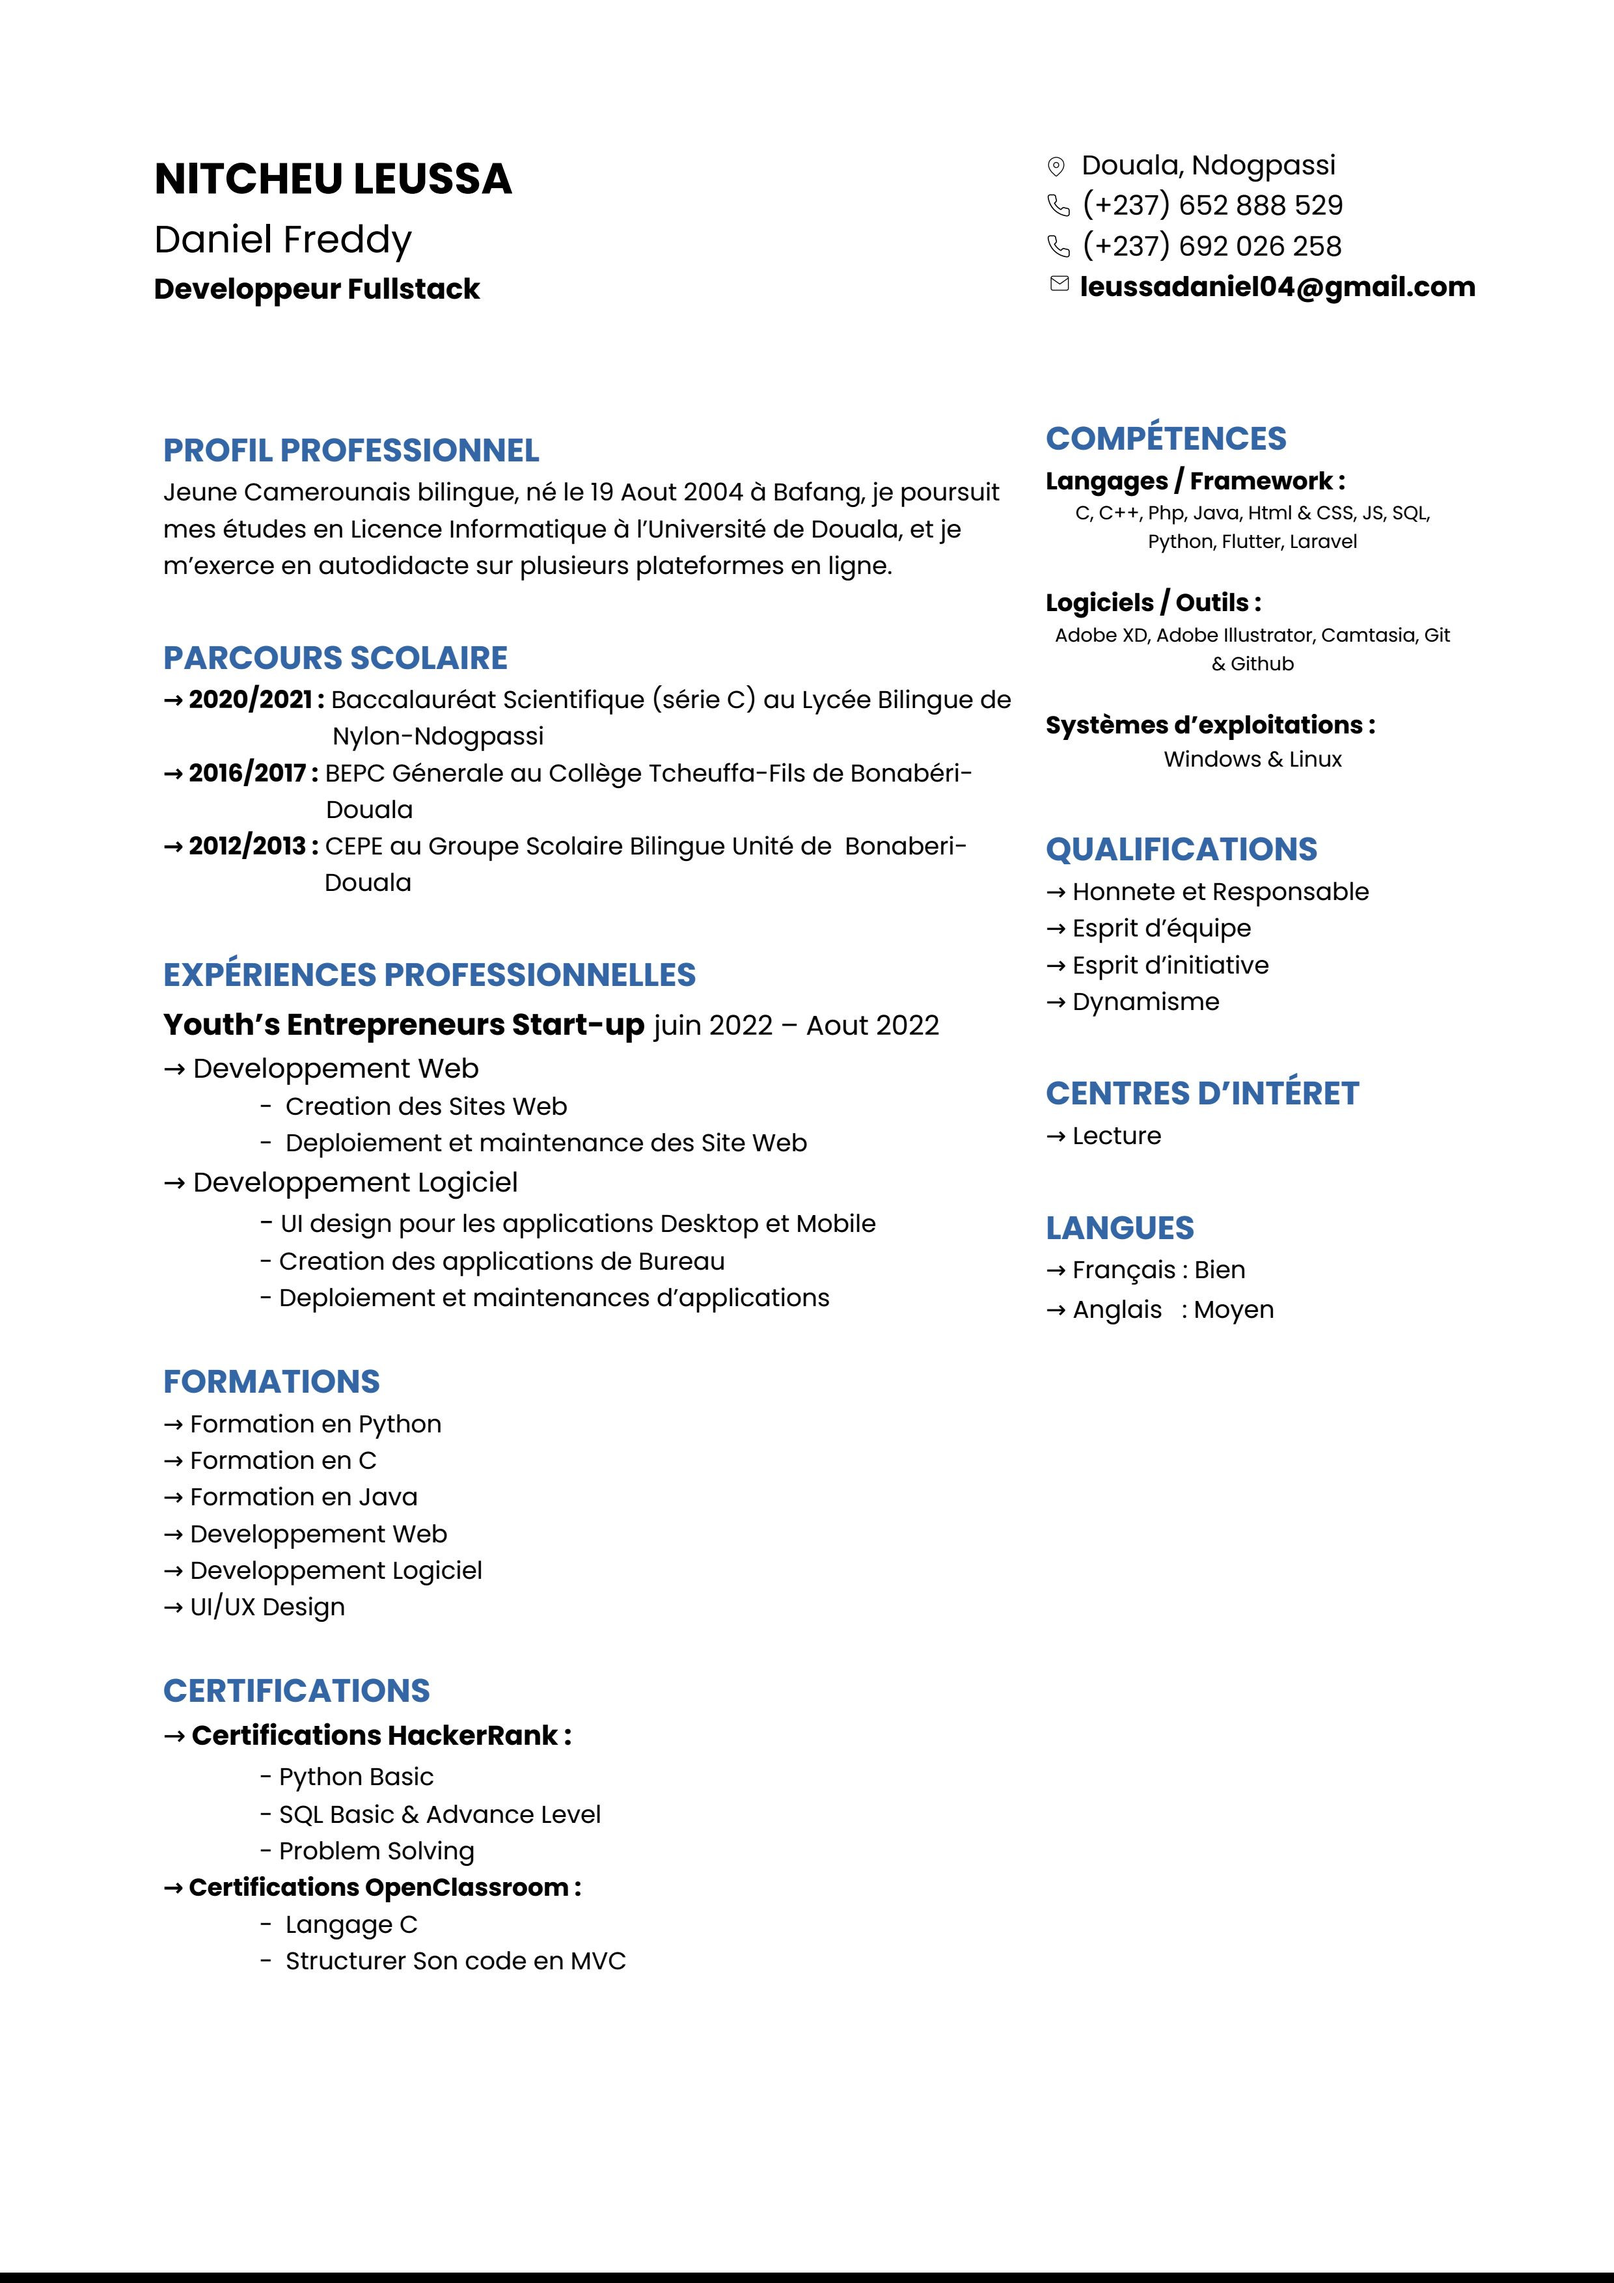
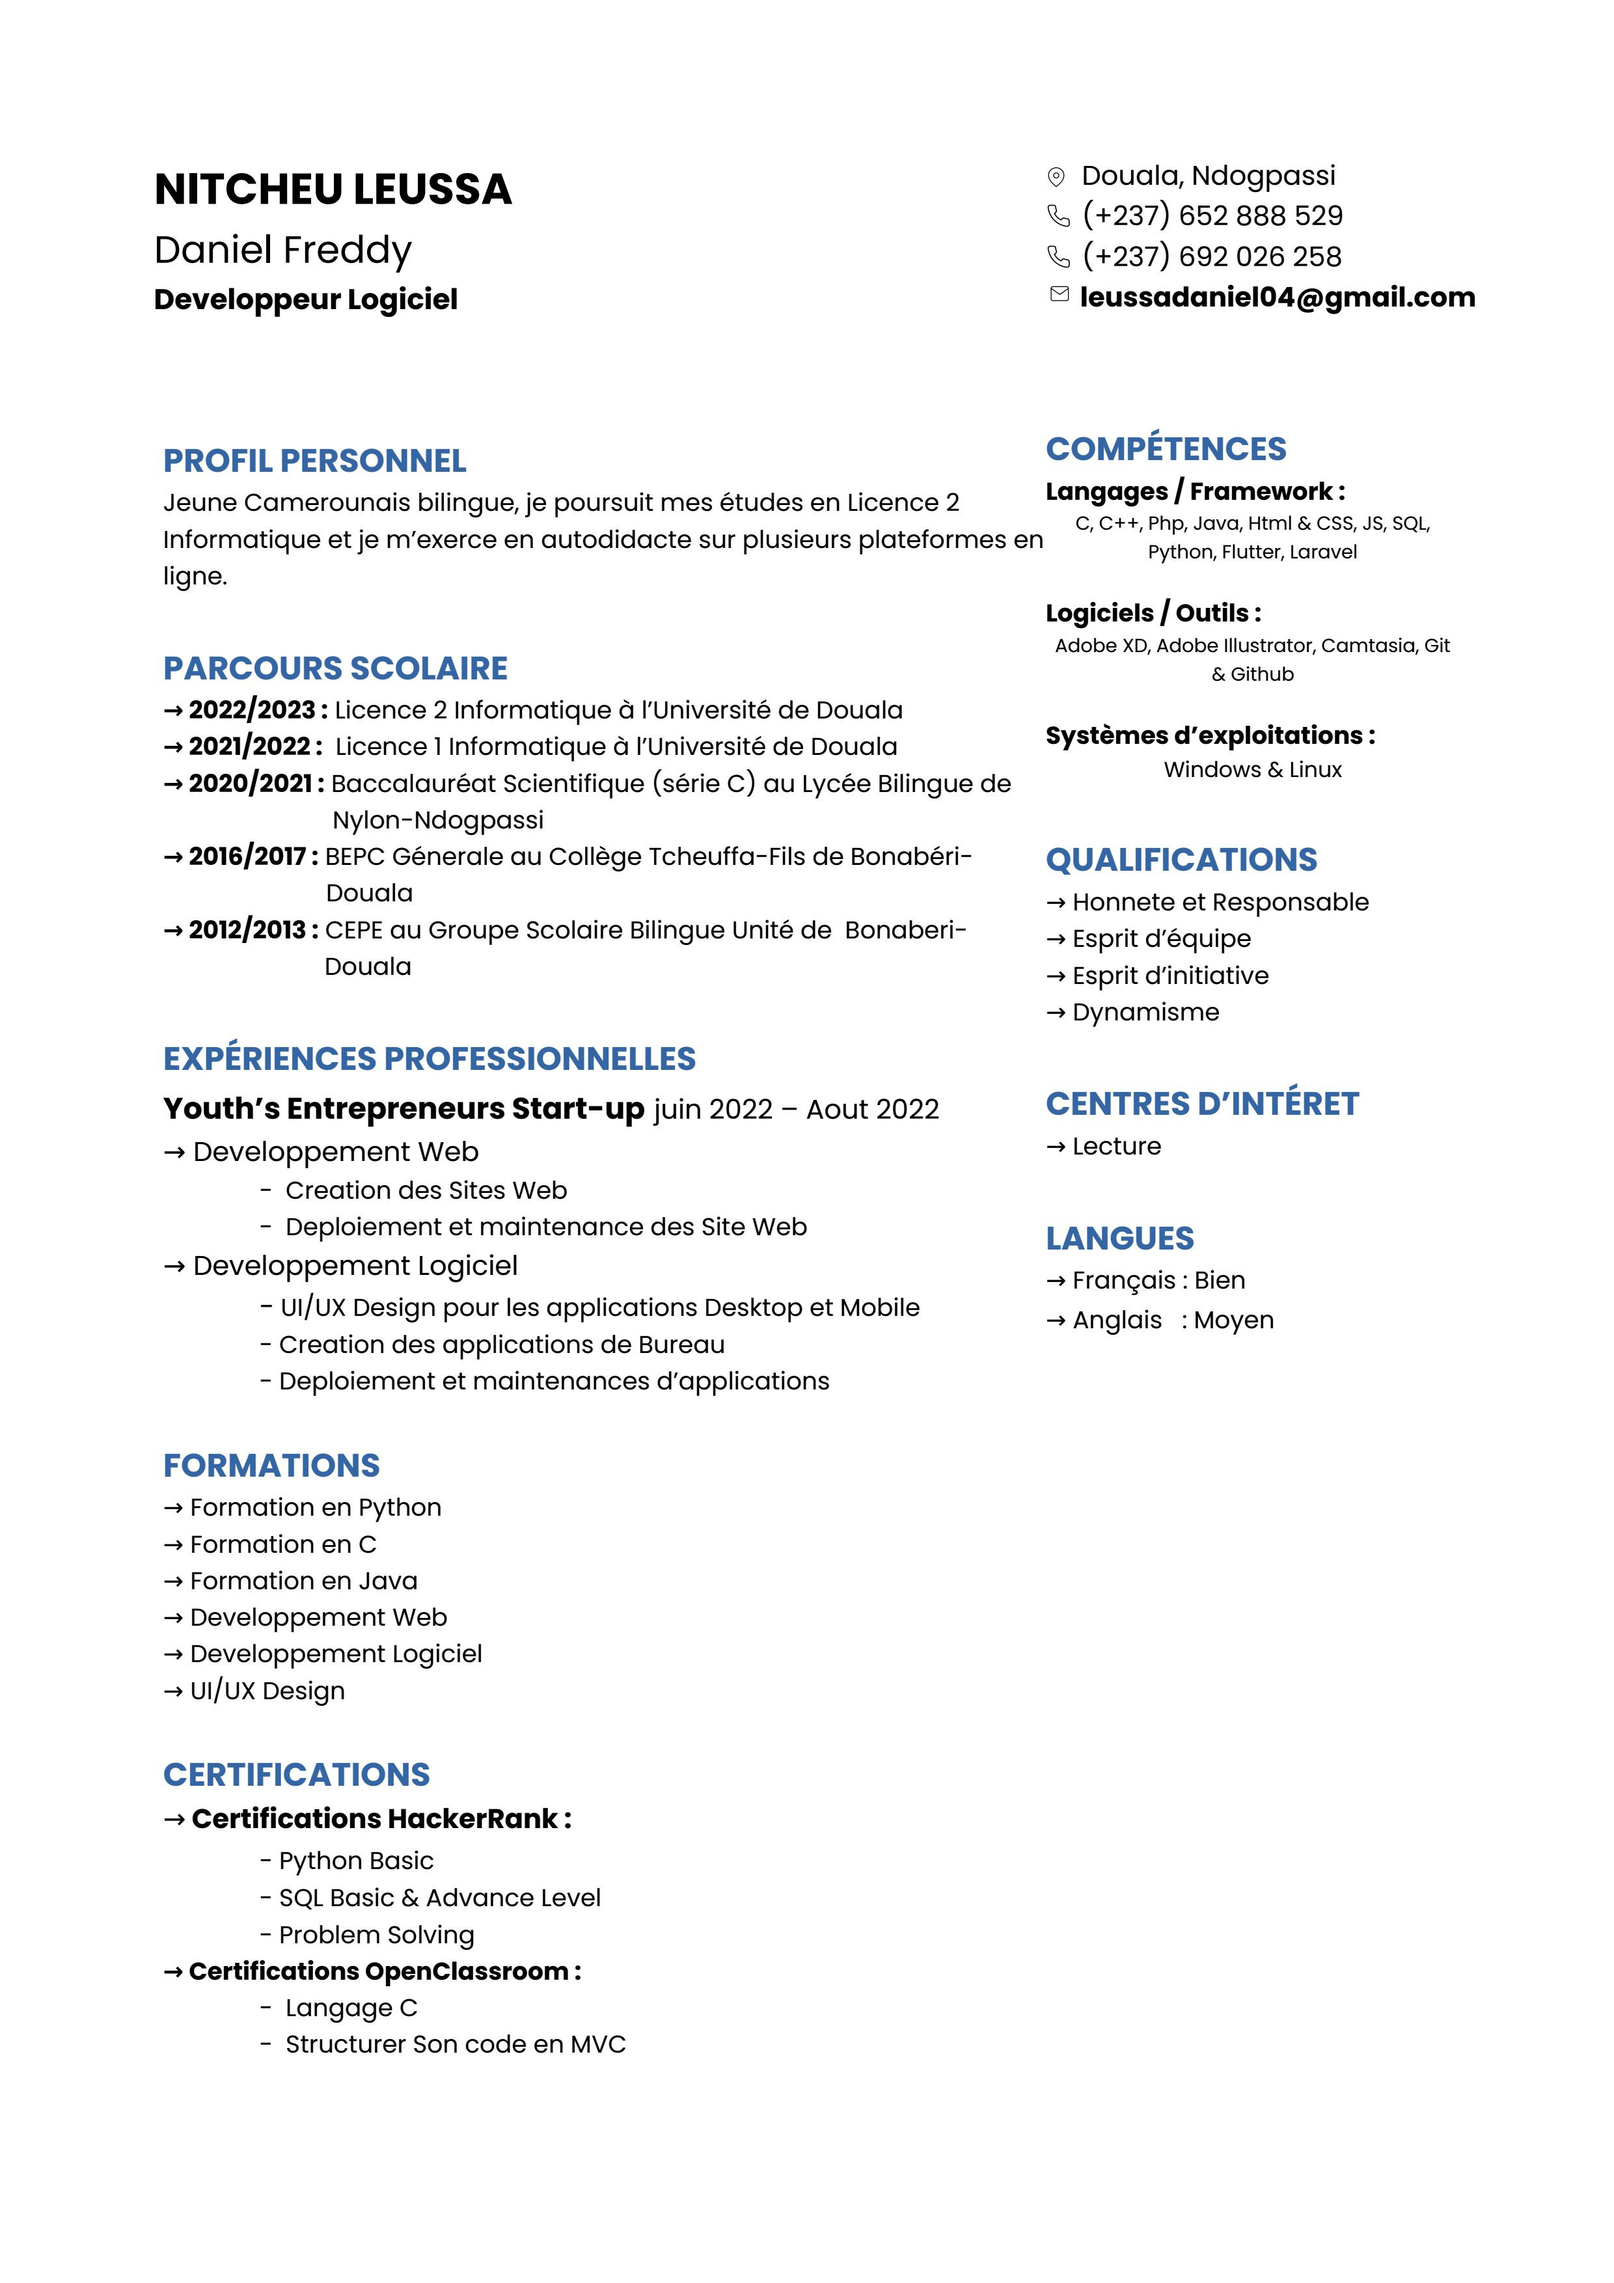
CVs updated

diff --git a/index.html b/index.html
@@ -85,7 +85,7 @@
                 </div>
                 <div class="col" id="banner-text">
                     <span class="fs-4">Salut, Je suis <br><b>Daniel LEUSSA</b></span>
-                    <p>Developpeur Fullstack</p>
+                    <p>Developpeur Logiciel</p>
                     <p><a class="btn btn-primary" target="_blank" href="https://github.com/danofred00" title="Voir mon portfolio">
                         Mon Portfolio <span><img src="./assets/images/icons/external-link.svg"></span></a></p>
                 </div>
